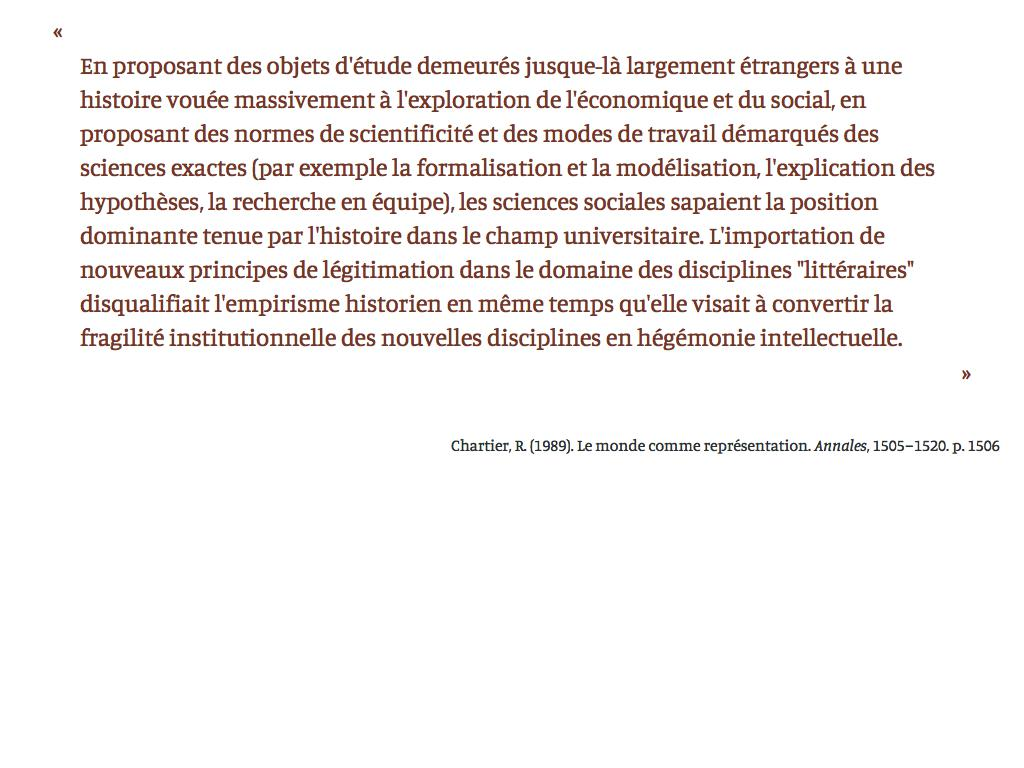
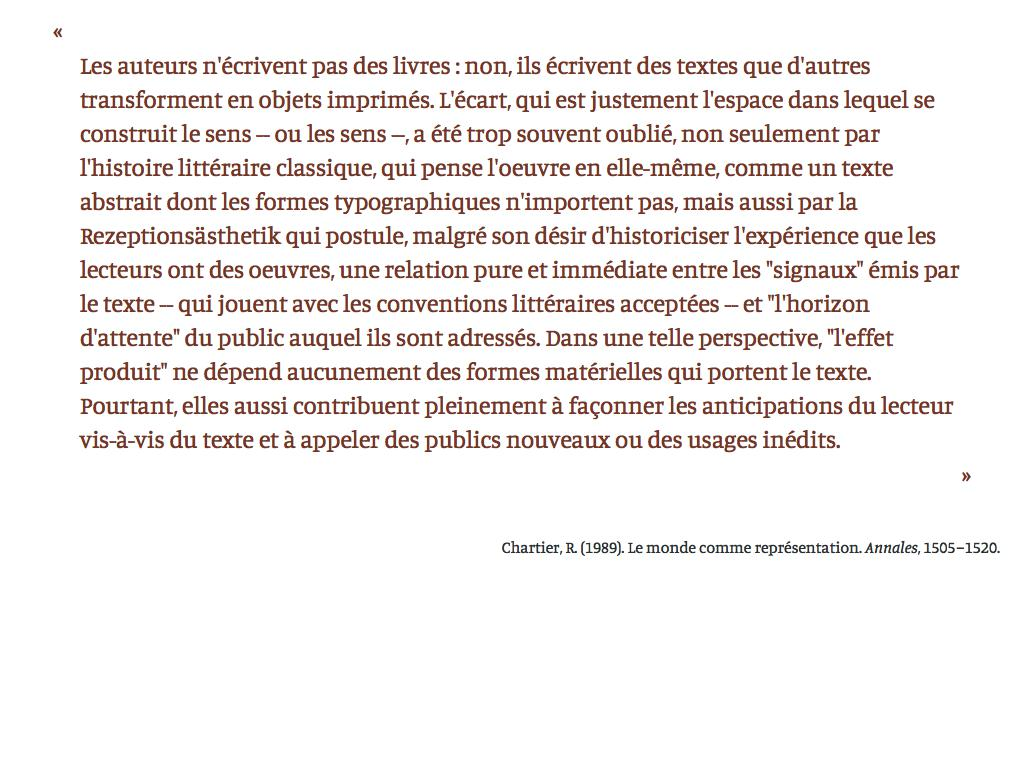
add images shuffling

Changed region(s): [[0.0625, 0.0625, 0.9688, 0.5938], [0.5, 0.6875, 0.9688, 0.7188]]

diff --git a/scripts/prepareImages.js b/scripts/prepareImages.js
@@ -2,6 +2,7 @@ const path = require('path');
 const fs = require('fs');
 var h2p = require('html2plaintext');
 const async = require('async');
+const arrayShuffle = require('array-shuffle');
 
 const parseCitations = require('./parseCitations');
 const toImage = require('./htmlToImage');
@@ -21,7 +22,7 @@ module.exports = function prepareImages(imagesDir, dataDir, callback) {
     path.resolve(dataDir + '/references.csv'), 
     (err, quotes) => {
       let cont = 0;
-      async.mapSeries(quotes, (quote, quoteCb) => {
+      async.mapSeries(arrayShuffle(quotes), (quote, quoteCb) => {
         cont++;
         const citation = formatCitation(quote.bibRef.bibtex, quote.localisateur);
         const displayDate = activeDate.getFullYear() + '-' + activeDate.getMonth() + '-' + activeDate.getDate();
